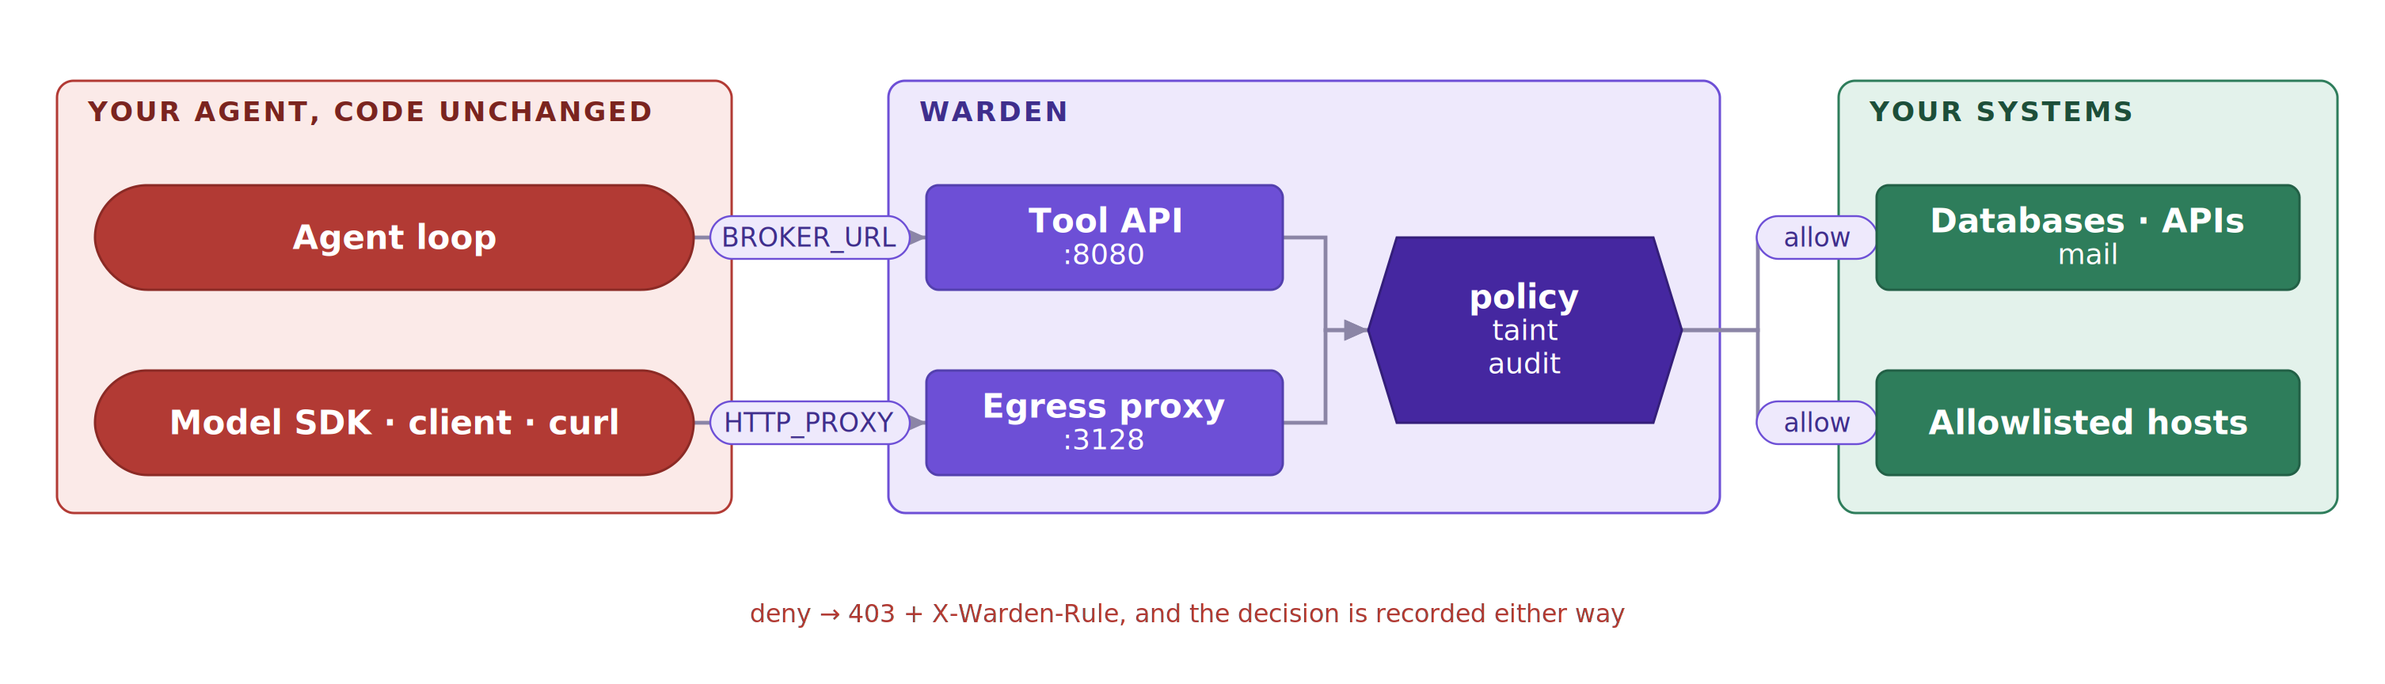
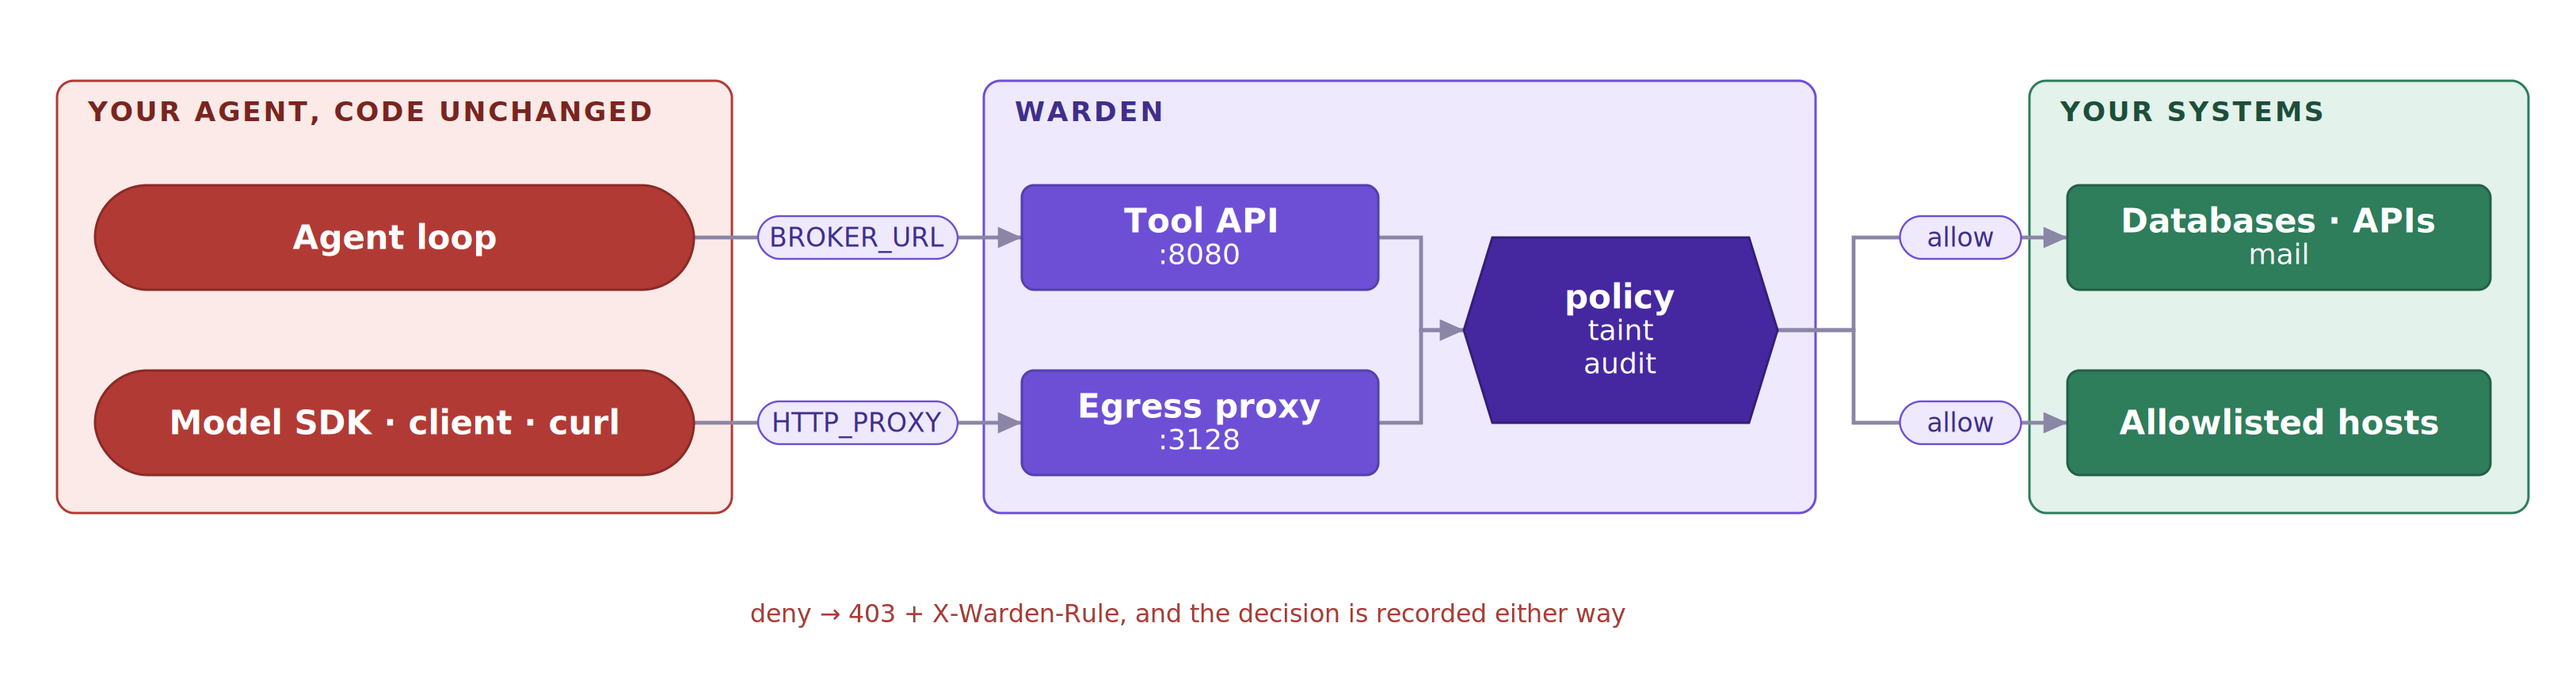
docs: fix a zone title that overhung its box, and teach check() to catch it
The architecture diagram's title read 'WARDEN BROKER · ONE PROCESS, ONE WORKER'
in a zone 45px too narrow for it. Zone titles are drawn last on an opaque
chip, so it did not clip: it hung off the right edge and painted over the
CONNECT edge behind it. Every existing check passed, because none of them
compared a title's width to its own zone.

Add that check, shorten the title to the part that is load-bearing, and fix
the two diagrams the new eye caught:

  integration      BROKER_URL and HTTP_PROXY overhung both zone borders by 9px
                   each. 138px of clear air between zones instead of 98.
  trust-boundaries three exits left a 46px-tall box within 23px of each other
                   and turned at once, reading as one frayed cable. One trunk
                   and three branches now, the same shape the other diagrams
                   use.

diff --git a/tools/render_diagrams.py b/tools/render_diagrams.py
@@ -258,6 +258,15 @@ class Diagram:
             label_box = (z.x + 7, z.y + 4,
                          z.x + 23 + text_width(z.label, FS_ZONE) + len(z.label) * 0.9,
                          z.y + 26)
+            # A zone title is drawn last and on an opaque chip, so when it is
+            # wider than its own zone it does not clip -- it simply hangs off
+            # the right edge and paints over whatever is beyond. Nothing else
+            # here catches that, and "WARDEN BROKER · ONE PROCESS, ONE WORKER"
+            # overhung its box by 45px in a shipped diagram for exactly this
+            # reason: every other check passed.
+            if label_box[2] > z.right:
+                bad.append(f"zone title {z.label!r} is "
+                           f"{label_box[2] - z.right:.0f}px wider than its zone")
             for e in self.edges:
                 chip = self._chip(e)
                 if chip and self._overlap(chip, label_box, 1.0):
@@ -389,7 +398,7 @@ def architecture():
     opa = d.box(770, pdp.cy - 27, 230, 54, ["OPA 1.19.0  :8181", "authz.rego + data.json"],
                 "core", "hex")
 
-    d.zone("WARDEN BROKER · ONE PROCESS, ONE WORKER", "enforce", [*pipe, aud])
+    d.zone("WARDEN BROKER · ONE WORKER", "enforce", [*pipe, aud])
 
     ay = aud.bottom + 74
     names = ["docstore", "sql", "mail", "http"]
@@ -456,14 +465,15 @@ def trust():
 
     d.route([agent.at("right"), (390, agent.cy), (390, broker.cy), (broker.x, broker.cy)],
             src=agent, dst=broker, label="Bearer · CONNECT")
-    # Three straight exits, each from its own share of the broker's right edge.
-    for i, target in enumerate((db, intern, ext)):
-        t = 0.25 + i * 0.25
-        # 18px apart, not 6 -- three corridors that close together read as
-        # one frayed line rather than three routes.
-        corridor = 826 + i * 18
-        d.route([broker.at("right", t), (corridor, broker.y + broker.h * t),
-                 (corridor, target.cy), (target.x, target.cy)],
+    # One trunk, three branches -- not three separate exits. Fanning out of
+    # the box itself put all three departures inside 23px of each other,
+    # because the broker is only 46px tall, and three lines leaving that close
+    # together and turning at once read as one frayed cable. Sharing a single
+    # stub and splitting at one corridor is the same shape the integration and
+    # overview diagrams use, and it survives being scaled down.
+    for target in (db, intern, ext):
+        d.route([broker.at("right"), (832, broker.cy),
+                 (832, target.cy), (target.x, target.cy)],
                 src=broker, dst=target)
     d.route([mint.at("left"), (420, mint.cy), (420, agent.bottom + 46),
              (agent.cx, agent.bottom + 46), (agent.cx, agent.bottom)],
@@ -534,22 +544,25 @@ def integration():
     sdk = d.box(40, 156, 252, 44, ["Model SDK · client · curl"], "untrusted", "stadium")
     d.zone("YOUR AGENT, CODE UNCHANGED", "untrusted", [loop, sdk])
 
-    api = d.box(390, 78, 150, 44, ["Tool API", ":8080"], "enforce")
-    px = d.box(390, 156, 150, 44, ["Egress proxy", ":3128"], "enforce")
-    gate = d.box(576, 100, 132, 78, ["policy", "taint", "audit"], "core", "hex")
+    # 138px of clear air between the agent zone and this one, not 98: the
+    # BROKER_URL / HTTP_PROXY chips are the widest labels in the diagram and
+    # at 98 they overhung both zone borders by 9px each.
+    api = d.box(430, 78, 150, 44, ["Tool API", ":8080"], "enforce")
+    px = d.box(430, 156, 150, 44, ["Egress proxy", ":3128"], "enforce")
+    gate = d.box(616, 100, 132, 78, ["policy", "taint", "audit"], "core", "hex")
     d.zone("WARDEN", "enforce", [api, px, gate])
 
-    sysb = d.box(790, 78, 178, 44, ["Databases · APIs", "mail"], "target")
-    net = d.box(790, 156, 178, 44, ["Allowlisted hosts"], "target")
+    sysb = d.box(870, 78, 178, 44, ["Databases · APIs", "mail"], "target")
+    net = d.box(870, 156, 178, 44, ["Allowlisted hosts"], "target")
     d.zone("YOUR SYSTEMS", "target", [sysb, net])
 
     d.edge(loop.at("right"), api.at("left"), src=loop, dst=api, label="BROKER_URL")
     d.edge(sdk.at("right"), px.at("left"), src=sdk, dst=px, label="HTTP_PROXY")
     d.edge(api.at("right"), gate.at("left"), src=api, dst=gate, bend="h")
     d.edge(px.at("right"), gate.at("left"), src=px, dst=gate, bend="h")
-    d.route([gate.at("right"), (740, gate.cy), (740, sysb.cy), (sysb.x, sysb.cy)],
+    d.route([gate.at("right"), (780, gate.cy), (780, sysb.cy), (sysb.x, sysb.cy)],
             src=gate, dst=sysb, label="allow")
-    d.route([gate.at("right"), (740, gate.cy), (740, net.cy), (net.x, net.cy)],
+    d.route([gate.at("right"), (780, gate.cy), (780, net.cy), (net.x, net.cy)],
             src=gate, dst=net, label="allow")
     d.note(500, 262, "deny → 403 + X-Warden-Rule, and the decision is recorded either way",
            FORBIDDEN)
